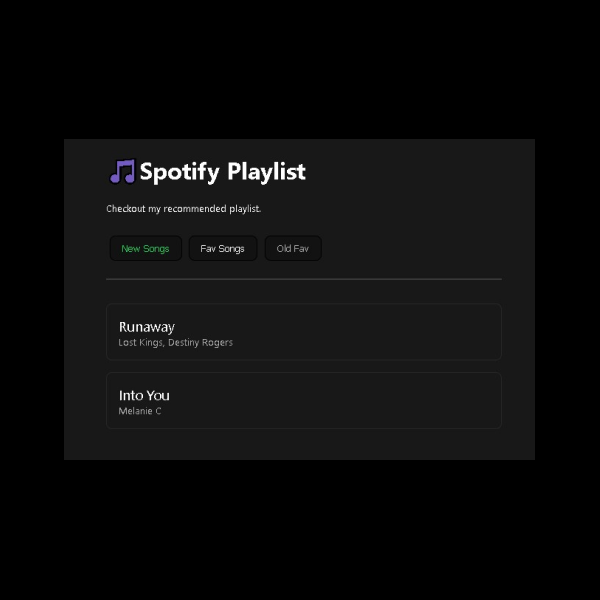
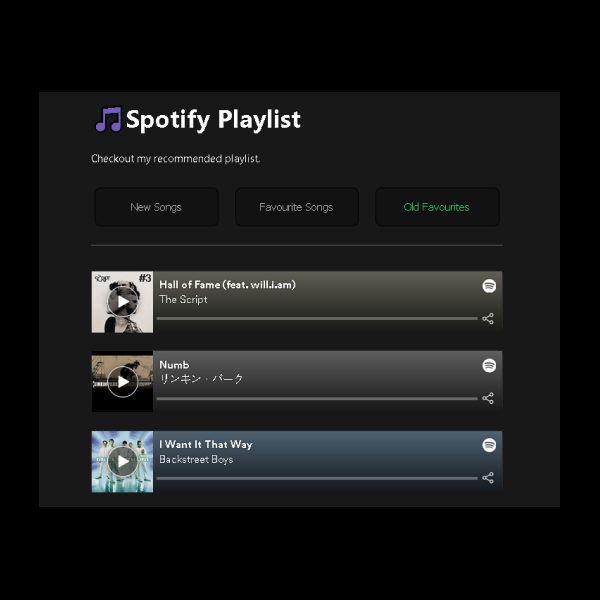
style: updated project 7 again

diff --git a/projects.html b/projects.html
@@ -420,11 +420,10 @@
             <div class="project-title">Spotify Playlist</div>
             <div class="project-intro">
               Spotify playlist app built using <span class="bold">React</span>.
-              User can look for song recommendation based on different playlist
-              that has been created. Its <span class="bold">temporary</span> for
-              now. Spotify api will be added on 22nd to access the playlist
-              directly and dynamically. This will also allow users to get 30sec
-              preview of the song. The UI will also be revamped in 2 days.
+              Shows a list of recommended Spotify songs. Uses Spotify track
+              links in embedded iFrames to display and play music. Its
+              <span class="bold">temporary</span> for now. The UI will also be
+              revamped later.
             </div>
             <div class="project-btns">
               <button
